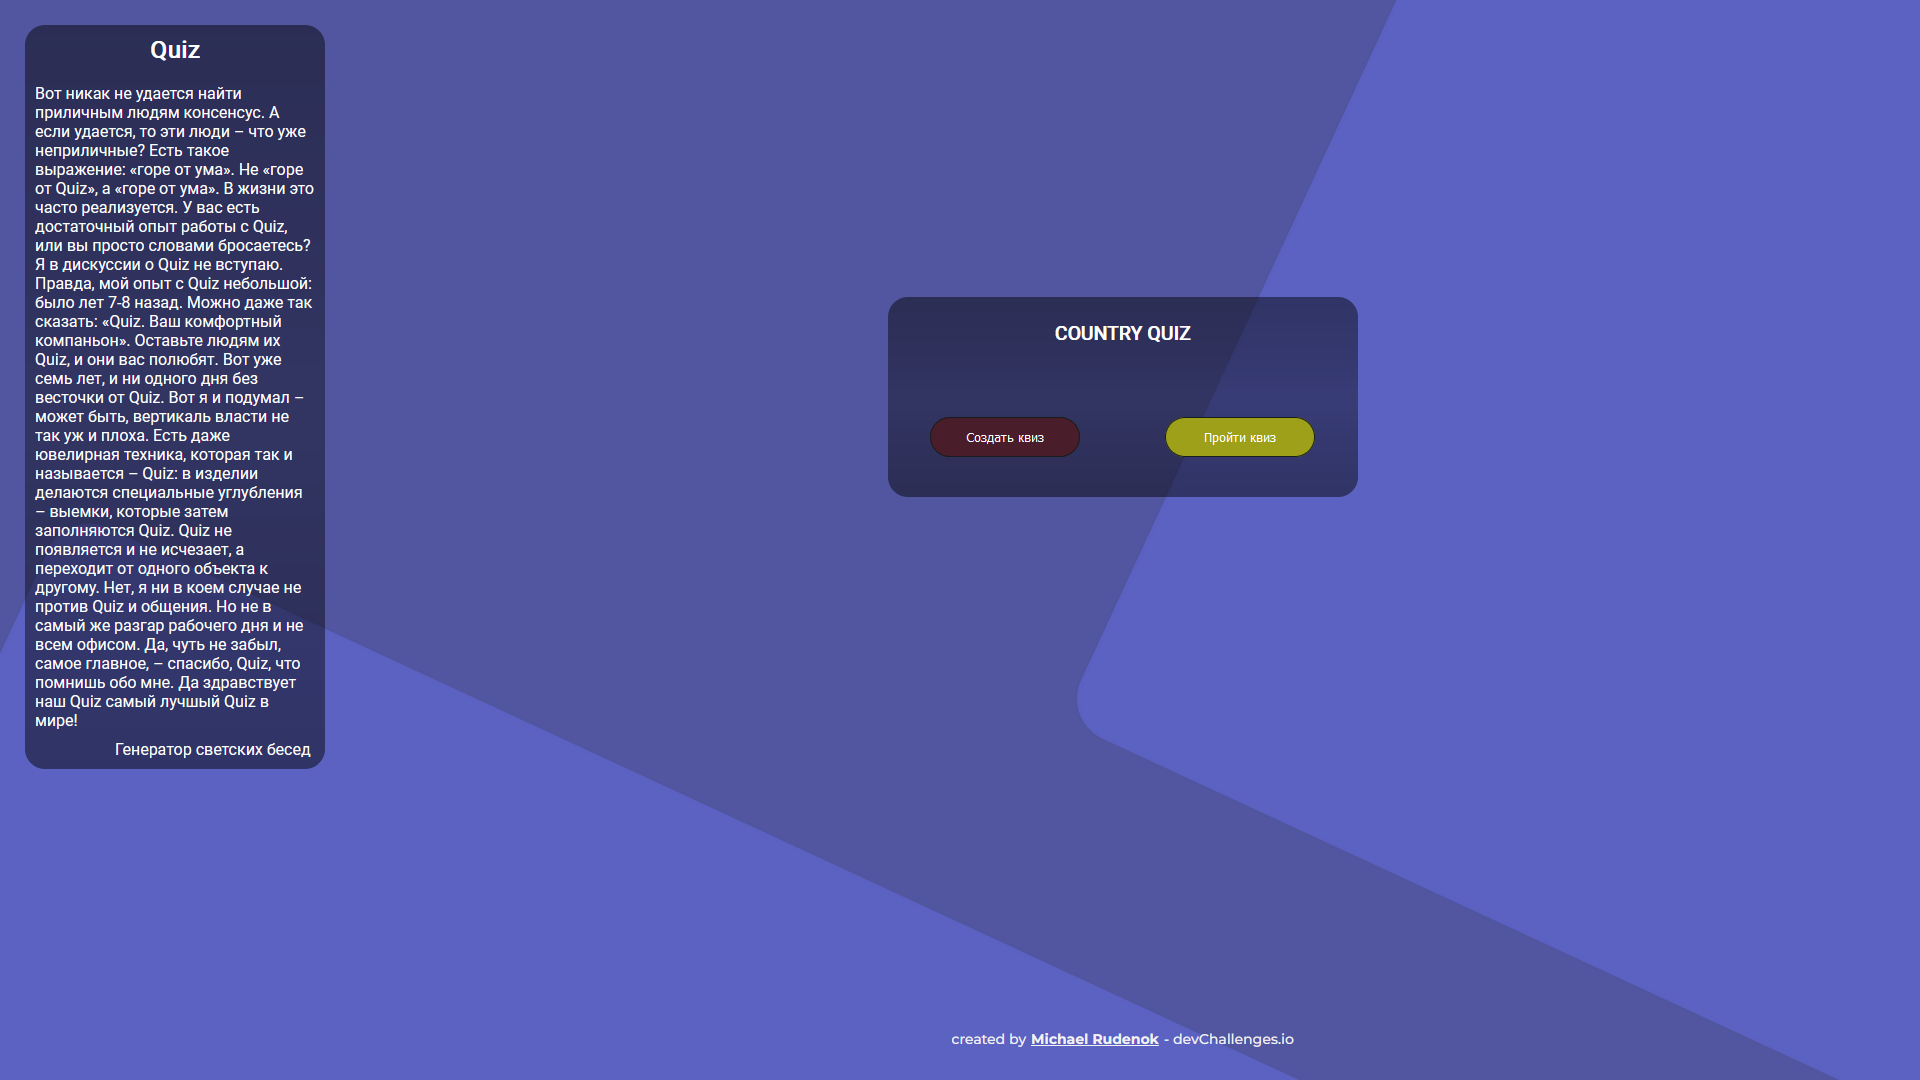
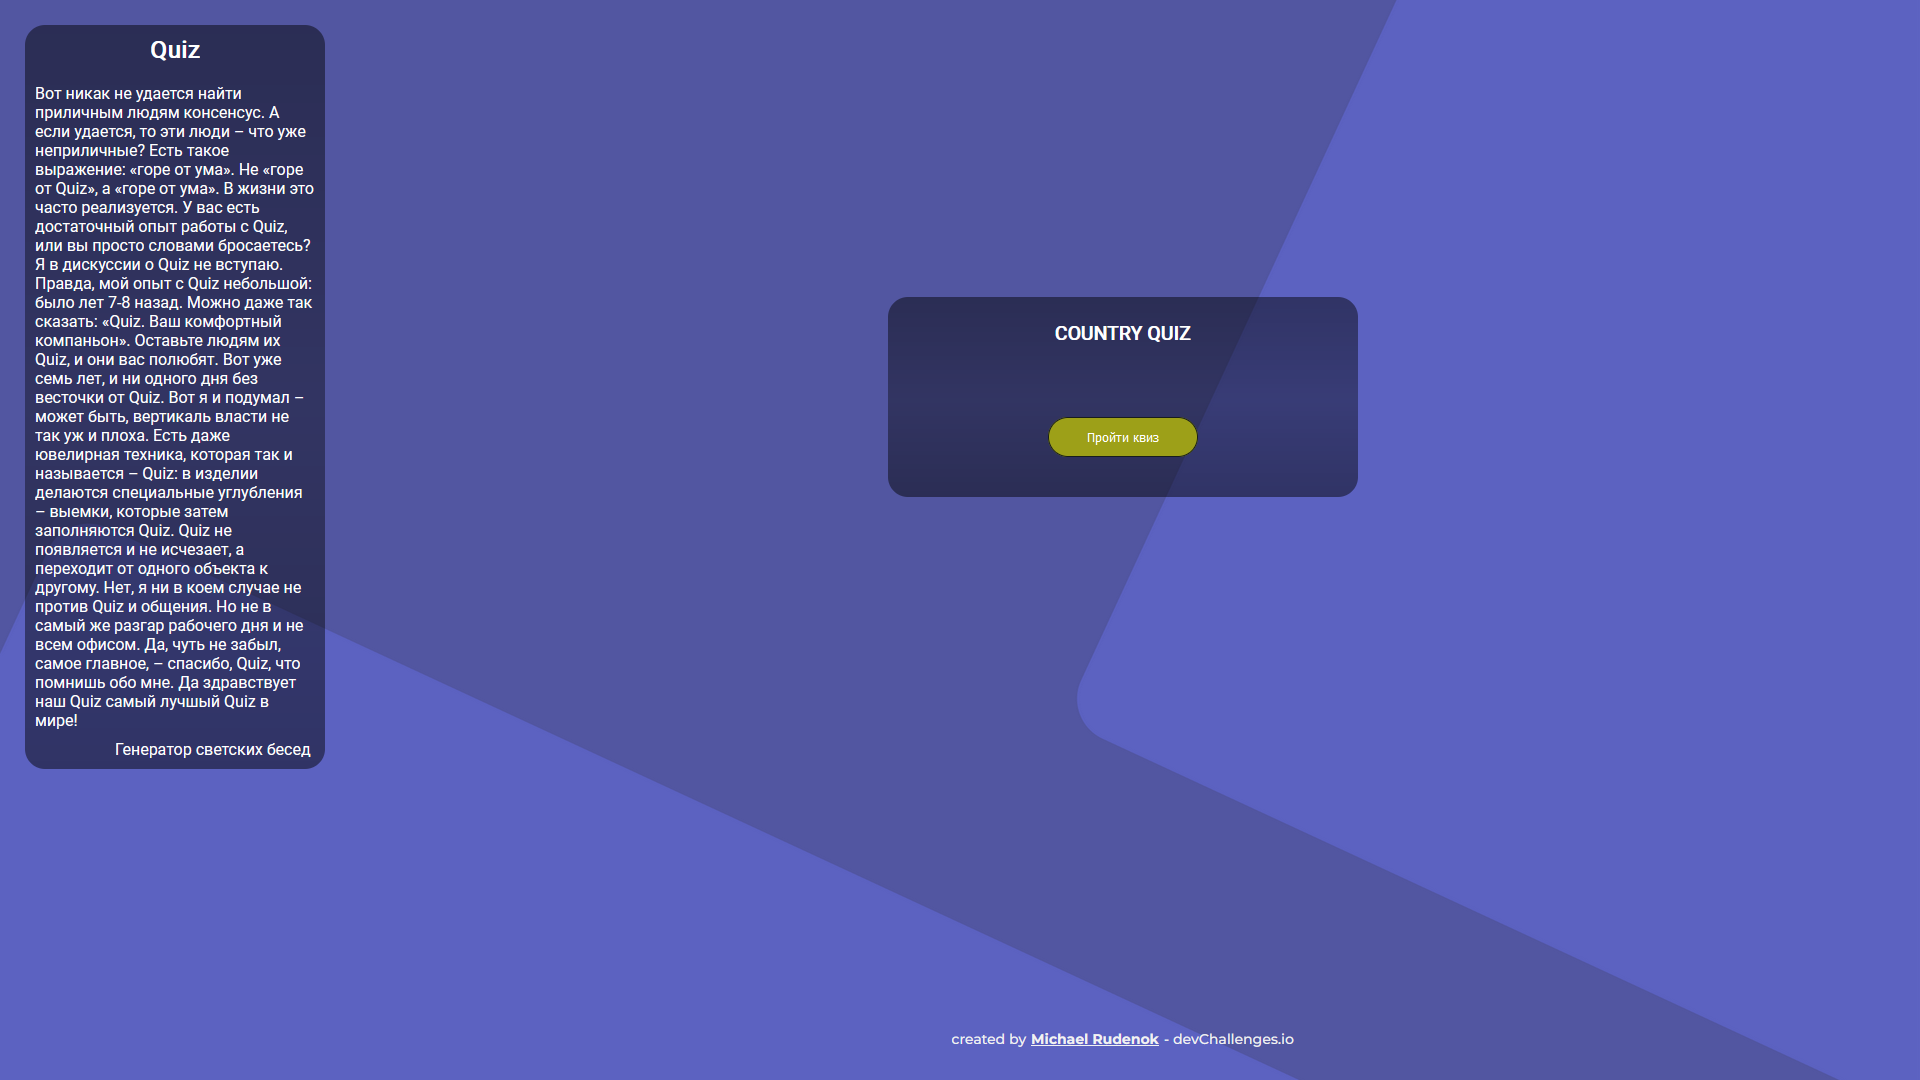
Change rndSample #12

Changed region(s): [[0.4688, 0.3667, 0.6875, 0.4278]]

diff --git a/pages/Components/Main/Main.jsx b/pages/Components/Main/Main.jsx
@@ -12,7 +12,7 @@ const Main = () => {
             <h1 className={main.title}>COUNTRY QUIZ</h1>
 
             <div className={indexCss.flex + " " + main.div}>
-               <input
+               {/*                <input
                   onClick={() => actions.openFalse()}
                   className={
                      main.btn +
@@ -23,7 +23,7 @@ const Main = () => {
                   }
                   type="button"
                   value="Создать квиз"
-               />
+               /> */}
                <input
                   onClick={() => Router.push("/chouseRegion")}
                   className={

diff --git a/untils/createSampleQuiz/rndSample.js b/untils/createSampleQuiz/rndSample.js
@@ -1,9 +1,14 @@
-const rndSample = (regionArr, iteration) => {
+const rndSample = (regionArr, iteration, answer = "") => {
    let sampleQuiz = [];
-   const max = regionArr.length-1;
+   const max = regionArr.length - 1;
    const rndInt = Math.floor(Math.random() * max);
 
+   console.log(answer,regionArr[rndInt].name.common);
+
    for (let i = 0; i < iteration; i++) {
+      if (answer === regionArr[rndInt]) {
+         rndInt = rndInt + 1;
+      }
       if (rndInt === max) {
          rndInt = i;
       }

diff --git a/untils/createSampleQuiz/sampleQuiz.js b/untils/createSampleQuiz/sampleQuiz.js
@@ -6,9 +6,10 @@ const sampleQuiz = (regionArr) => {
    const variableAnswer = [];
    const quizArr = [];
    question = rndSample(regionArr, 1);
-   variableAnswer = rndSample(regionArr, 3);
-   const questionFlag = question[0].flags.png;
    const answer = question[0].name.common;
+   variableAnswer = rndSample(regionArr, 3,answer);
+   const questionFlag = question[0].flags.png;
+
 
    const answers = variableAnswer.map((name) => name.name.common);
    answers.push(answer);
